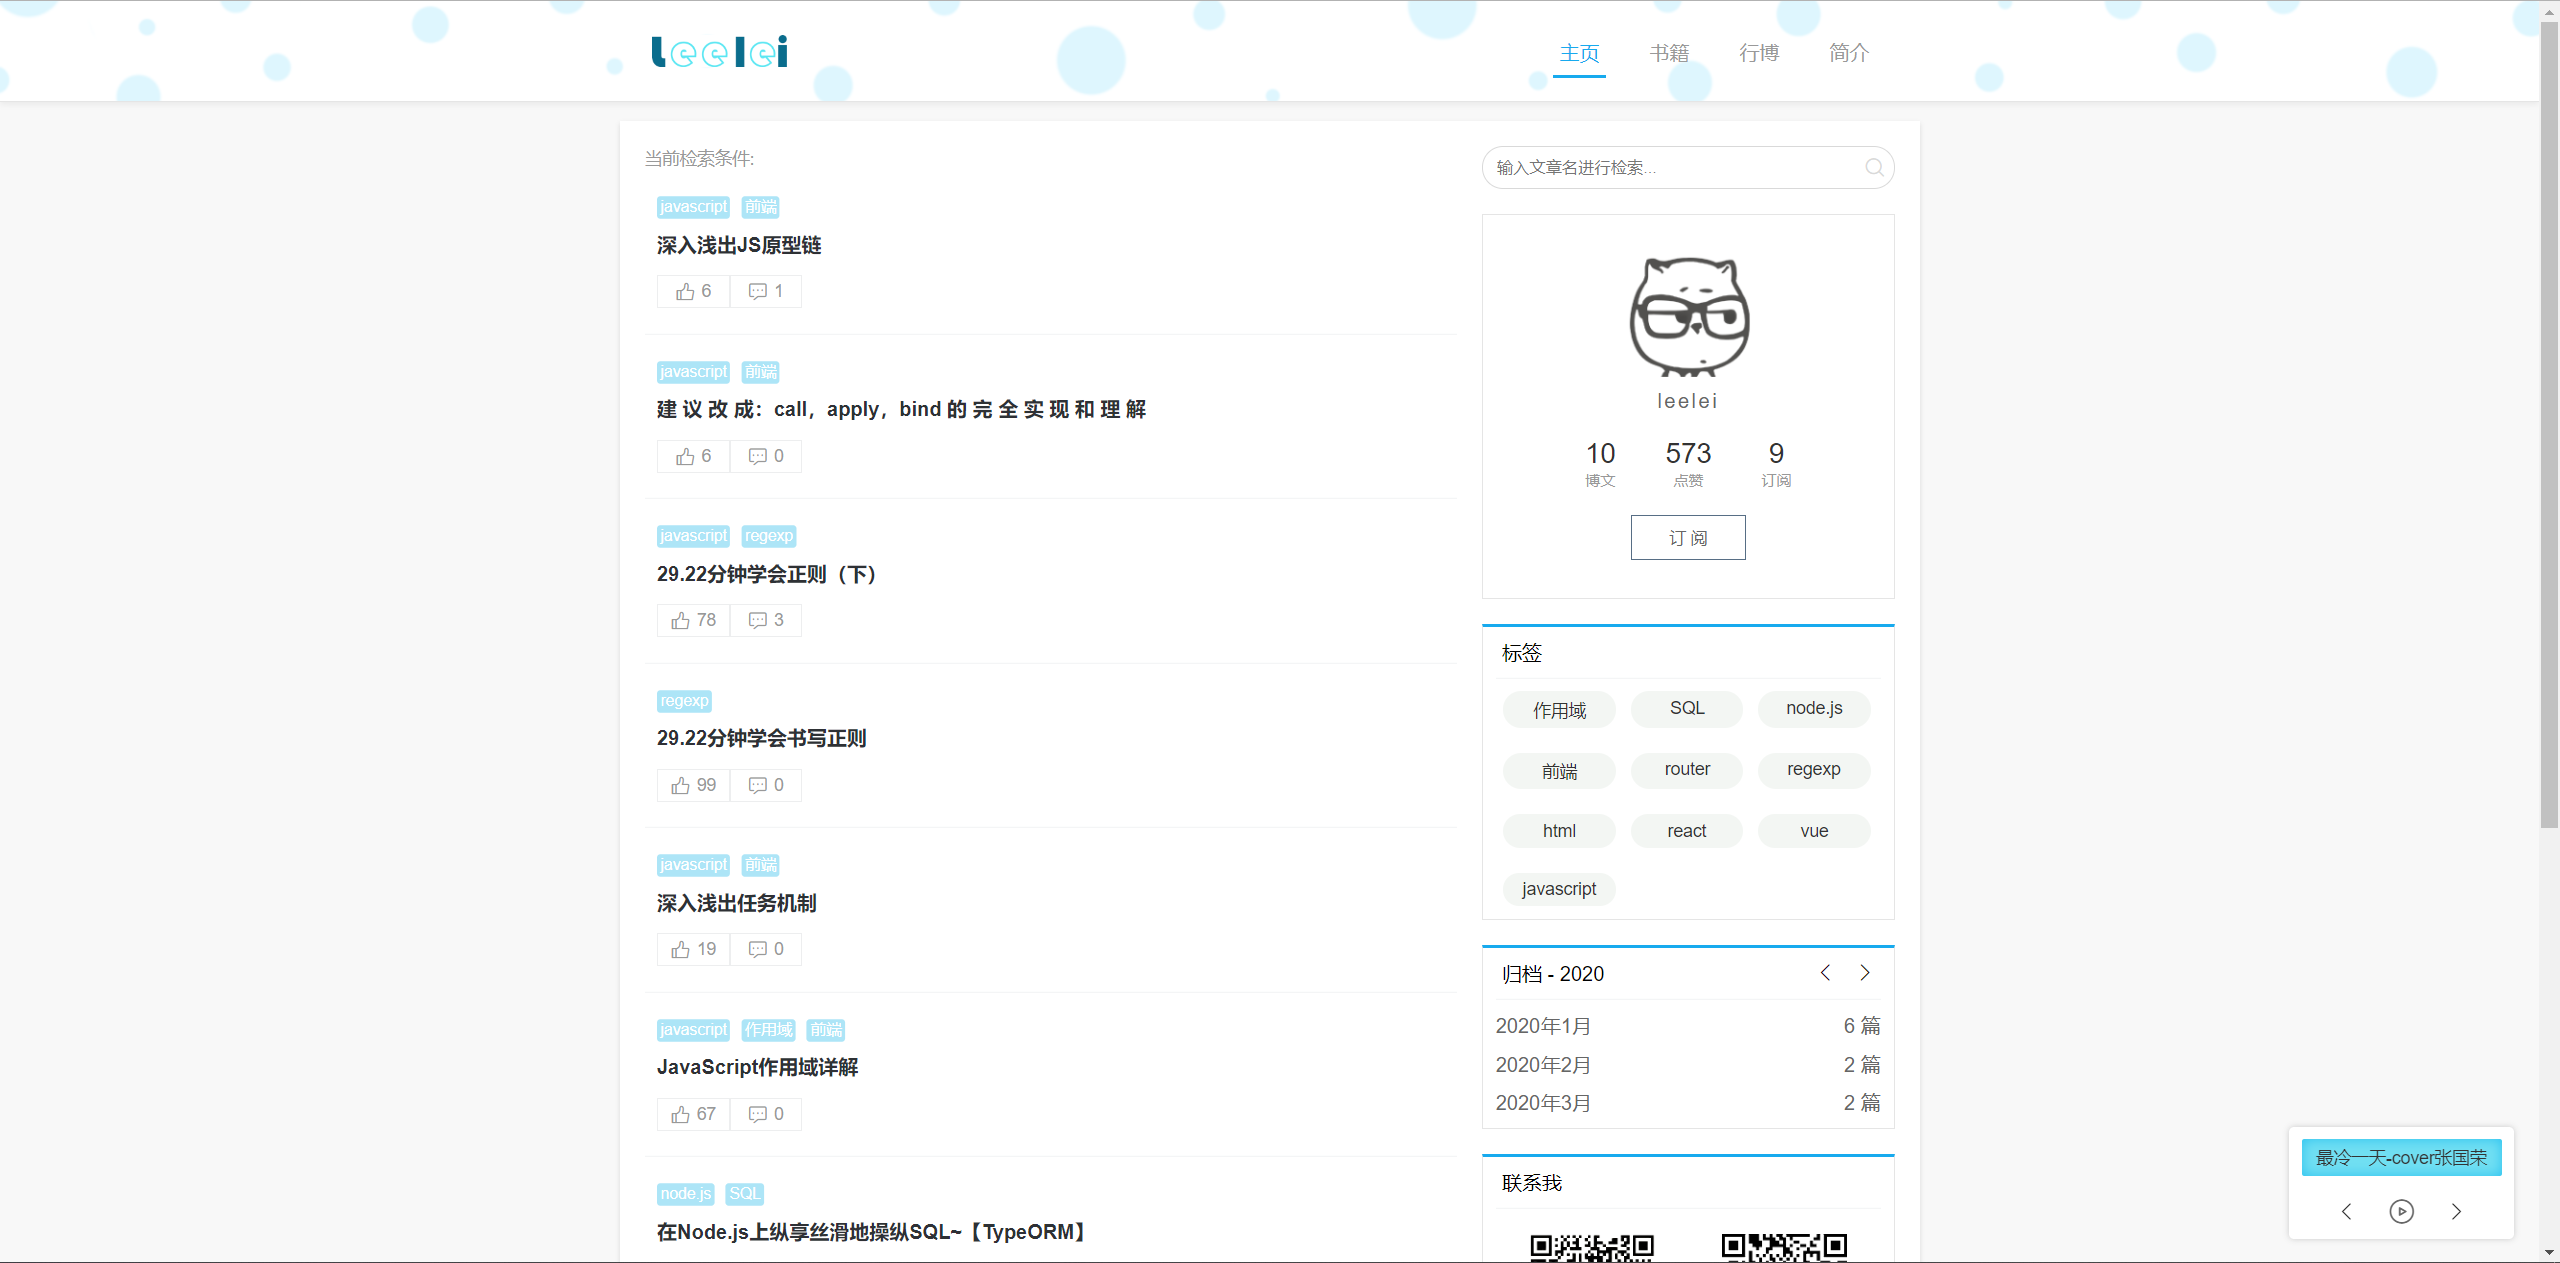
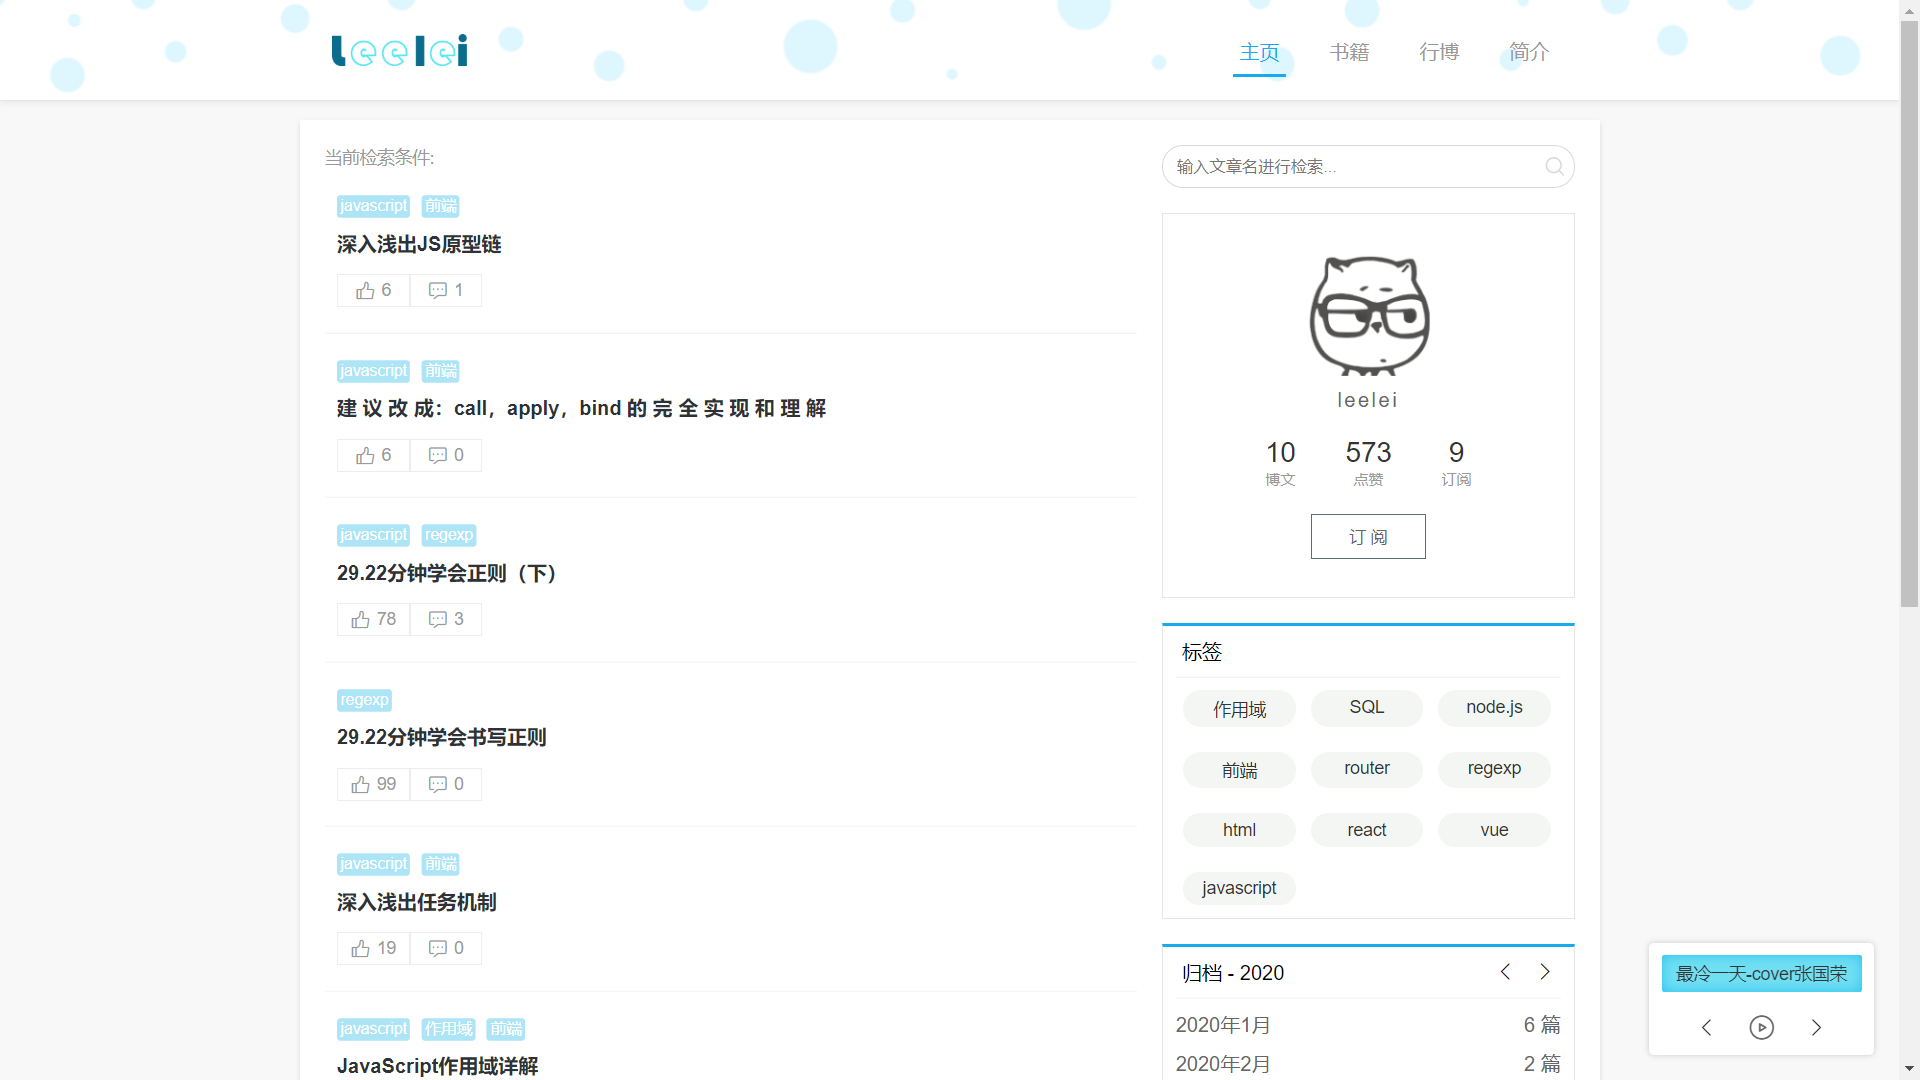
添加注释

diff --git a/src/pages/lineblog.js b/src/pages/lineblog.js
@@ -13,7 +13,6 @@ class LineBlog extends Component {
     super(props);
     this.state = {
       show: false,
-      AlreadyLikeList: [],
       pageIndex: 1,
       pageSize: 10,
       loading: false,
@@ -25,18 +24,6 @@ class LineBlog extends Component {
       show: true
     });
     if(this.props.lineblogList.length==0){this.getLineblogs();}
-    //储存已点赞列表
-    let reg = /#(\d+)_lblike;/g;
-    let arr = [];
-    if(localStorage.info!=undefined||localStorage.info!=null){
-      localStorage.info.replace(reg, (mt, $1) => {
-        arr.push($1 - 0);
-        return mt;
-      });
-      this.setState({
-        AlreadyLikeList: arr
-      });
-    }
   }
   async getLineblogs(isPush = false) {
     try {
@@ -44,8 +31,7 @@ class LineBlog extends Component {
       this.setState({ loading: true });
       let res = await $_get("/api/getLineblogs", {
         pageIndex,
-        pageSize,
-        status: true
+        pageSize
       });
       if (isPush) {
         lineblogList = lineblogList.concat(res.data.tableData);
@@ -72,20 +58,7 @@ class LineBlog extends Component {
 
   //点赞行博
   async likeLineblog(id) {
-    try {
-      await $_post("/api/likeLineblog", { id });
-      this.setState({
-        AlreadyLikeList: this.state.AlreadyLikeList.concat([id])
-      });
-      localStorage.info =
-        localStorage.info == undefined
-          ? `#${id}_lblike;`
-          : localStorage.info + `#${id}_lblike;`;
-
-      this.getLineblogs();
-    } catch (err) {
-      Toast.error(err.msg ? err.msg : err);
-    }
+    Toast.error('点赞成功');
   }
 
   //月份数字转换成大写
@@ -169,18 +142,10 @@ class LineBlog extends Component {
                   <div className="lineblog-item-content">
                     <p className="lineblog-item-text">{item.contents}</p>
                     <p className="lineblog-item-options">
-                      {/* <span>阅读({item.readNum||0})</span> */}
-                      {this.state.AlreadyLikeList.indexOf(item.id) > -1 ? (
-                        <span style={{ color: "#15b7ec" }}>
-                          <i className="iconfont">&#xe6ca;</i>(
-                          {item.likeNum || 0})
-                        </span>
-                      ) : (
                         <span onClick={this.likeLineblog.bind(this, item.id)}>
-                          <i className="iconfont icon-like">&#xe6c9;</i>(
+                          <i className="iconfont icon-like">&#xe6c9;</i>
                           {item.likeNum || 0})
                         </span>
-                      )}
                     </p>
                   </div>
                 </li>

diff --git a/src/pages/article.js b/src/pages/article.js
@@ -19,8 +19,8 @@ export default class Test extends Component {
       alreadyLike: false,
       alreadyRead: false,
       menuList: [],
-      articleInfo: { tags: [], likeNum: 0 },
-      commentNum: 0,
+      articleInfo: { tags: [], likeNum: 0 ,commentNum: 0},
+      
     };
     let cb;
   }
@@ -55,13 +55,6 @@ export default class Test extends Component {
   //点赞文章
   async likeArticle() {
     Toast.success('点赞成功');
-  }
-
-  //获取评论总数从子组件
-  getCommnetCount(count) {
-    this.setState({
-      commentNum: count
-    })
   }
 
   //生成目录
@@ -230,19 +223,11 @@ export default class Test extends Component {
               })}
               <span>
                 发表时间:
-                {articleInfo.createTime
-                  ? articleInfo.createTime
-                    .replace("T", " ")
-                    .replace(/\:\d{2}\.\d{1,3}Z$/, " ")
-                  : ""}
+                {articleInfo.createTime}
               </span>
               <span>
                 最近更新:
-                {articleInfo.updateTime
-                  ? articleInfo.updateTime
-                    .replace("T", " ")
-                    .replace(/\.\d{1,3}Z$/, " ")
-                  : ""}
+                {articleInfo.updateTime}
               </span>
               <span>
                 阅读数:
@@ -271,7 +256,7 @@ export default class Test extends Component {
             </div>
             <div
               className="suspended-comment suspended-item"
-              badge={commentNum}
+              badge={articleInfo.commentNum}
               onClick={() => smoothScroll("comment")}
             >
               <i className="iconfont">&#xe6d7;</i>

diff --git a/src/components/MusicPlayer.js b/src/components/MusicPlayer.js
@@ -15,12 +15,11 @@ export default class MusicPlayer extends Component {
 
   componentWillMount() {
     this.getSongList();
-    
   }
 
   //获取歌单
   async getSongList() {
-    let res = await $_get('/api/getMusicsAll');
+    // let res = await $_get('/api/getMusicsAll');
     this.setState({
       songList: res.data
     })
@@ -97,7 +96,7 @@ export default class MusicPlayer extends Component {
             bottom: this.props.bottom
           }}>
           <div className="mplayer-screen">
-            <audio loop="loop" src={'/static/uploads/' + songList[currentPlayIdx].src} ref="player">
+            <audio loop="loop" src={ songList[currentPlayIdx].src} ref="player">
               您的浏览器不支持 audio 标签。
             </audio>
             <p className={["mplayer-song", isPlaying ? 'mplayer-song--playing' : ""].join(' ')}>

diff --git a/src/pages/home.js b/src/pages/home.js
@@ -193,7 +193,6 @@ class Home extends Component {
                 loading={loading}
                 finished={finished}
               />
-              <p className="main-icp main-icp-left"><a href="http://beian.miit.gov.cn" target="_blank">粤ICP备20008695号</a></p>
             </div>
             <div className="main-right">
               <SearchBar handleSearch={this.setQuery.bind(this)} />
@@ -201,7 +200,6 @@ class Home extends Component {
               <Tags tagList={tagList} handleSearch={this.setTag.bind(this)} />
               <Archive handleSearch={this.setTime.bind(this)} />
               <ContactMe />
-              <p className="main-icp main-icp-right"><a href="http://beian.miit.gov.cn" target="_blank">粤ICP备20008695号</a></p>
             </div>
           </div>
         </CSSTransition>

diff --git a/README.md b/README.md
@@ -1,31 +1,34 @@
 # react-blog
-个人博客网站，最近要做一次大更新，因此把第一版比较旧的版本拿出来给大家分享。
+个人博客网站
+
 由于该项目是本人第一次使用`react`所建项目，所以有些地方代码不尽如人意，请自行斟酌使用
 
+技术栈主要包括`react`,`redux`,`axios`,`sass`
+
 # 网站效果
-截图用的是2k屏，可能看起来有点小
 ![主页](https://github.com/leedalei/react-blog/blob/master/%E6%95%88%E6%9E%9C%E5%9B%BE/1.png)
 ![书籍](https://github.com/leedalei/react-blog/blob/master/%E6%95%88%E6%9E%9C%E5%9B%BE/2.png)
 ![行博](https://github.com/leedalei/react-blog/blob/master/%E6%95%88%E6%9E%9C%E5%9B%BE/3.png)
 ![简介](https://github.com/leedalei/react-blog/blob/master/%E6%95%88%E6%9E%9C%E5%9B%BE/4.png)
 
 
-# 项目结构(只介绍下src下的了)
+# 项目结构
 ```
-|-components 储存组件，一些早期的组件js和css分开了，比较尴尬
-  |-fonts 一些markdown文件用到的字体，后续版本已经废弃
-  |-icon-font 字体图标
-  |-http 封装axios请求
-  |-js 封装的js工具
-  |-pages 主要页面
-  |-store redux的相关文件
-  |-styles 样式文件
-  |-index.css 全局公用css
-  |-router.js 路由配置
-  |-index.js 入口js
+src
+|--components 储存组件，一些早期的组件js和css分开了，比较尴尬
+|  |--fonts 一些markdown文件用到的字体，后续版本已经废弃
+|  |--icon-font 字体图标
+|  |--http 封装axios请求
+|  |--js 封装的js工具
+|  |--pages 主要页面
+|  |--store redux的相关文件
+|  |--styles 样式文件
+|  |--index.css 全局公用css
+|  |--router.js 路由配置
+|  |--index.js 入口js
 ```
 # 数据
-所有数据来源为fastmock,代理也是代理到了fastmock的链接。
+所有数据来源为fastmock,代理也是代理到了fastmock的链接。注意：这是`在线mock`
 
 
 # 使用
@@ -41,3 +44,8 @@
   ```
   npm run build
   ```
+
+# 其他一些说明
+- 接口我有些留下了参数没有删除，其实mock数据用不到这些参数，我只是想提醒你，如果你自己写后台的话，那么这些参数你可以参考使用。
+- 小白提醒：打包后代理是不可以用的哦，访问不到数据的嗷
+- npm install安装过程中node-sass可能安装报错，请自行百度解决，或者直接使用cnpm安装
